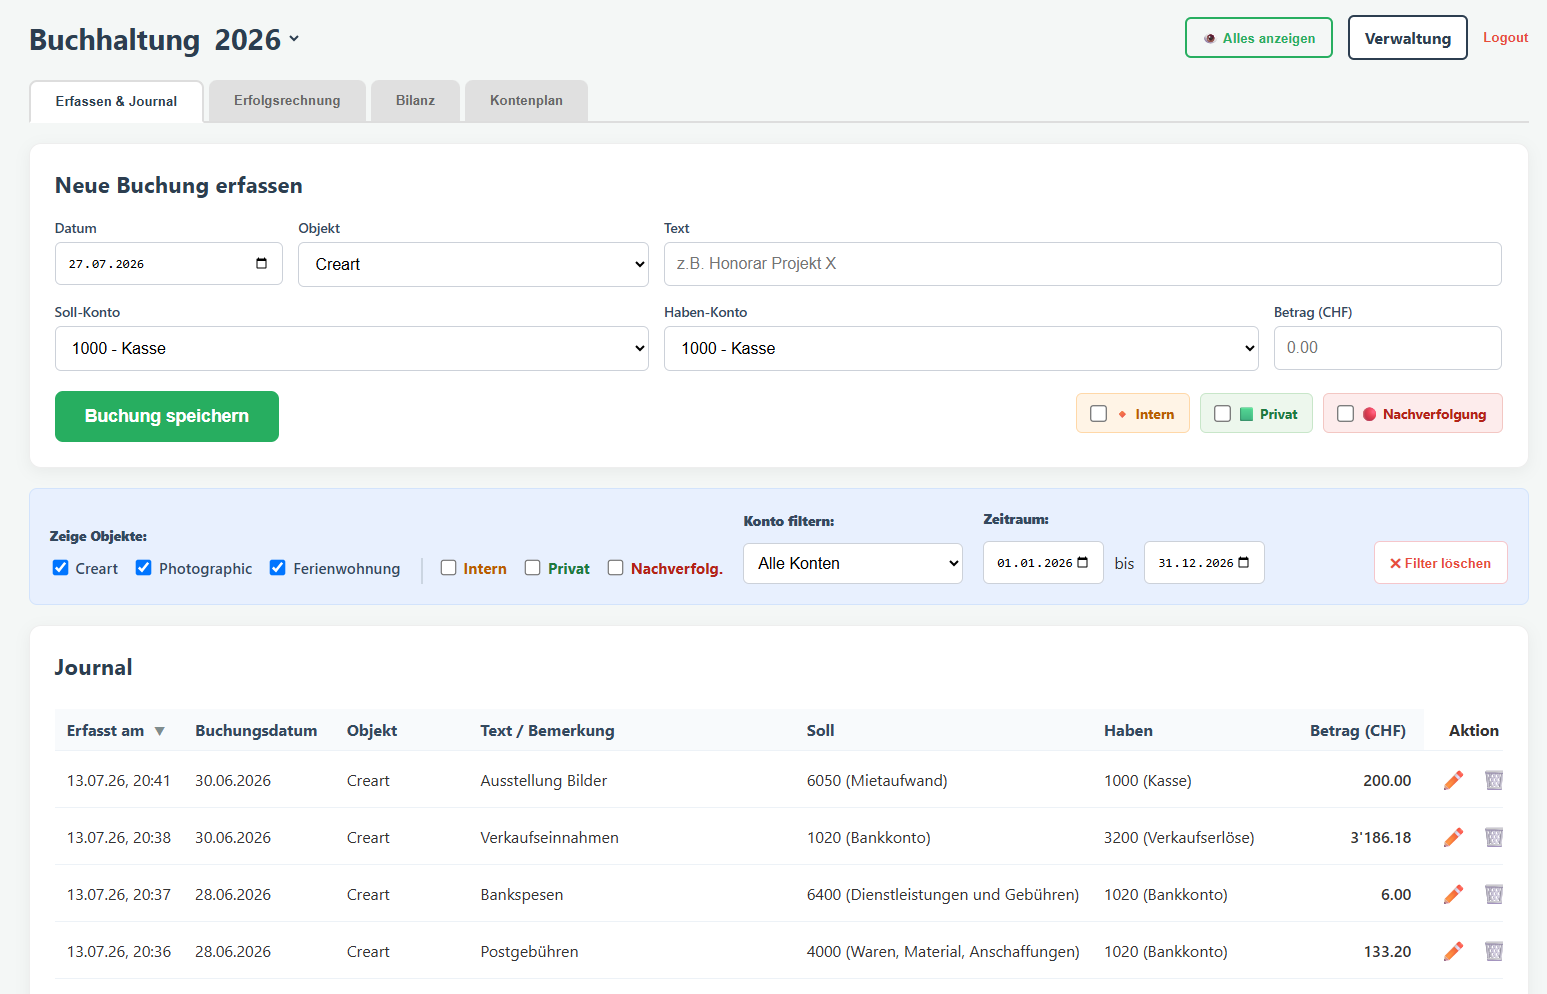
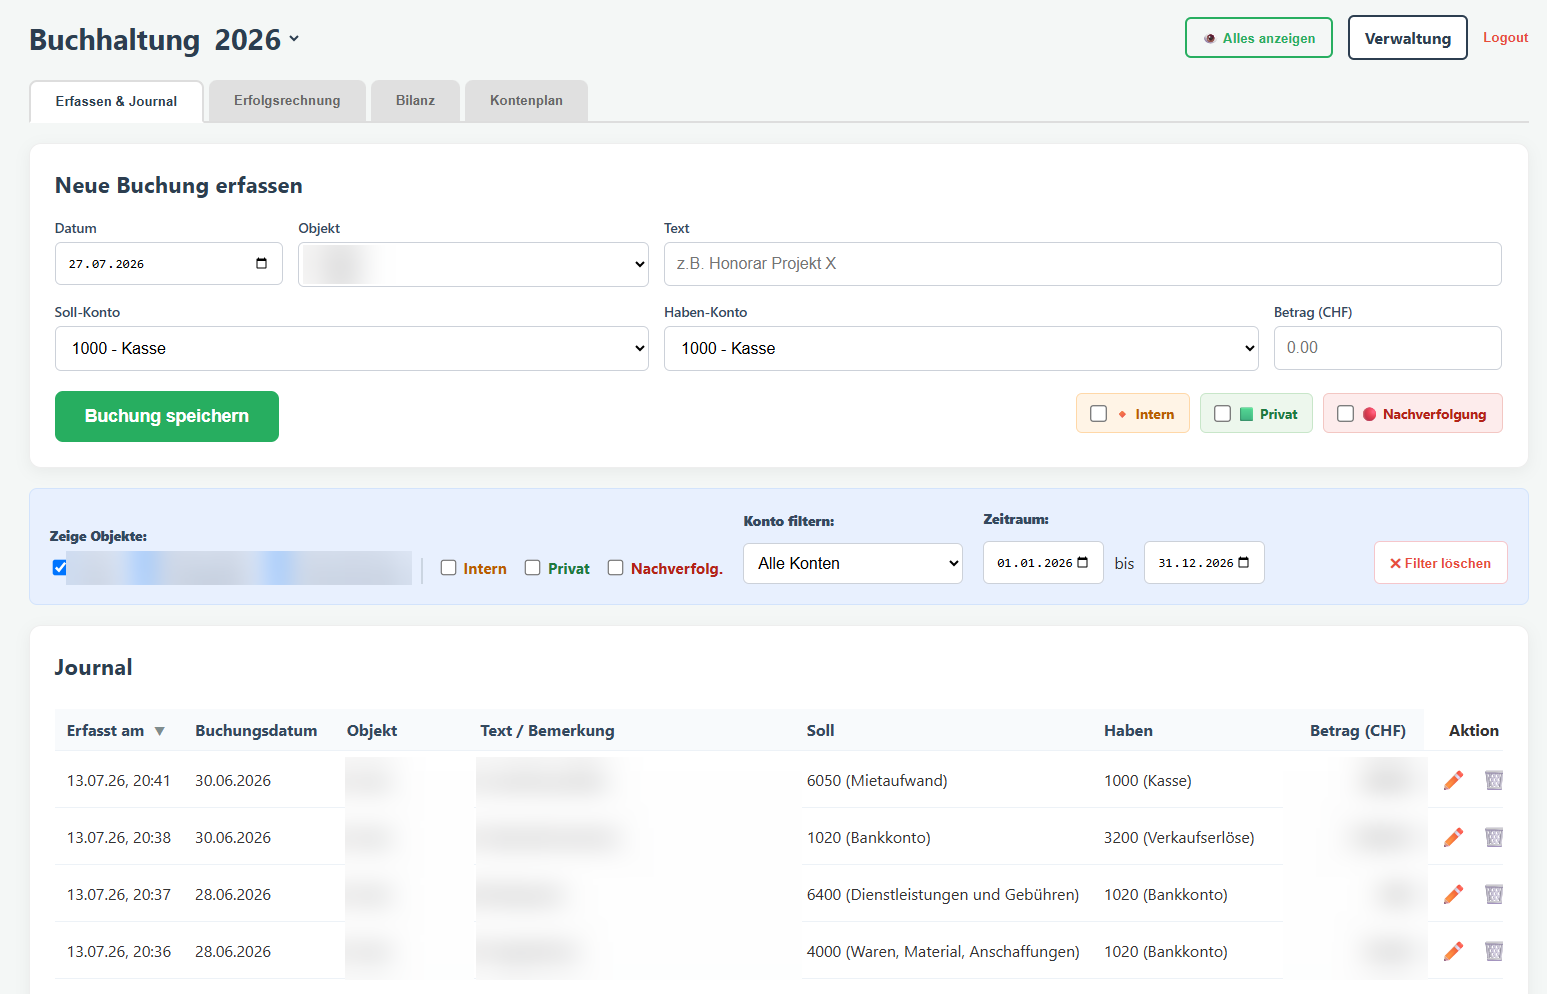
Sechstes Referenzprojekt ergänzen: Management einer Einzelfirma
Eine Einzelfirma führte ihr Kassenbuch in Excel und pflegte Verkäufe,
Debitorenlisten und Kostenkontrolle daneben von Hand. Die App fasst das
zusammen: doppelte Buchhaltung mit Erfolgsrechnung, Bilanz und automatischem
Abschluss, dazu Verkäufe, Vermietungen, Debitorenbuchhaltung und
Kundenadressen. Die Daten liegen auf einem Schweizer Server ohne Cloud.

Im Screenshot sind unkenntlich gemacht: die Objektauswahl im
Erfassungsformular, die Filterzeile mit den drei Objektnamen sowie im Journal
die Spalten Objekt, Text und Betrag. Der Firmenname kommt dadurch nirgends
mehr vor, auch nicht im HTML – deshalb steht als Kennzeichnung der Karte
"Management Einzelfirma" statt der Subdomain, die den Namen verraten hätte.

Sichtbar bleiben Buchungsdaten und die Spalten Soll und Haben. Es handelt sich
um Konten eines Standardkontenrahmens, die keine Rückschlüsse auf die Firma
zulassen; ohne sie wäre nicht erkennbar, dass es um eine doppelte Buchhaltung
geht.

Claude-Session: https://claude.ai/code/session_01LjRUfW3FfsT8qTny9Sf7Sg

diff --git a/index.html b/index.html
@@ -1079,12 +1079,12 @@ form .btn{width:100%; justify-content:center}
        a) öffentlich erreichbar  -> Link zur App (.proj-open) + Badge "Live"
        b) geschützt / mit Login  -> nur Screenshots + Badge "Geschützt"
 
-     Alle fünf Karten haben einen echten Screenshot (figure.proj-shot). Bei
+     Alle sechs Karten haben einen echten Screenshot (figure.proj-shot). Bei
      einem Austausch daran denken: src, width, height und alt anpassen, und in
      den Bildern der geschützten Apps müssen Gesichter und Namen erneut
      unkenntlich gemacht werden – siehe assets/README.md.
 
-     TODO: Ausgangslage und Problem stammen bei allen fünf Apps vom Betreiber,
+     TODO: Ausgangslage und Problem stammen bei allen sechs Apps vom Betreiber,
      Lösung, Funktionsliste und Ergebnis sind daraus abgeleitet – bitte
      gegenlesen, ebenso die Angaben zu Datenschutz und Hosting.
 
@@ -1473,6 +1473,81 @@ form .btn{width:100%; justify-content:center}
             <strong>Ergebnis:</strong> Ein Ort statt fünf Apps – mit Bildern in Originalqualität
             statt in Chat-Qualität. Die Abrechnung am Ende der Ferien dauert Minuten, und niemand
             muss mehr im Chat nach oben scrollen, um etwas zu finden.
+          </p>
+        </div>
+      </div>
+    </details>
+
+    <!-- Projekt 6: Management Einzelfirma (geschützt) ------------------- -->
+    <details class="proj reveal">
+      <summary>
+        <div>
+          <div class="proj-meta">
+            <span class="pill pill--closed">Geschützt</span>
+            <span class="tag">Management Einzelfirma</span>
+          </div>
+          <p class="proj-title">Buchhaltung und Verwaltung einer Einzelfirma</p>
+          <p class="proj-sum">
+            Buchhaltung, Verkäufe, Debitoren und Kundenadressen in einer App – mit
+            Erfolgsrechnung, Bilanz und automatischem Abschluss statt Excel-Kassenbuch.
+          </p>
+        </div>
+        <span class="proj-toggle" aria-hidden="true">
+          <svg width="16" height="16" viewBox="0 0 24 24" fill="none" stroke="currentColor" stroke-width="2.2" stroke-linecap="round"><path d="M12 5v14M5 12h14"/></svg>
+        </span>
+      </summary>
+      <div class="proj-detail">
+        <div class="proj-open">
+          <small>
+            <strong>Kein öffentlicher Link:</strong> Die App enthält die Geschäftszahlen einer
+            Firma und ist nur mit persönlichem Login erreichbar. Deshalb hier nur ein Screenshot.
+          </small>
+        </div>
+        <div class="proj-cols">
+          <div class="proj-block">
+            <h4>Ausgangslage</h4>
+            <p>Eine Einzelfirma führte ihr Kassenbuch in einer Excel-Datei. Verkäufe, Debitorenlisten und die Kostenkontrolle entstanden daneben von Hand in weiteren Dokumenten.</p>
+          </div>
+          <div class="proj-block">
+            <h4>Problem</h4>
+            <p>Jeder Bereich lag für sich: Dieselben Angaben mussten mehrfach erfasst werden, Debitorenlisten wurden manuell nachgeführt, und für einen Abschluss war jedes Mal Handarbeit nötig.</p>
+          </div>
+          <div class="proj-block">
+            <h4>Umgesetzte Lösung</h4>
+            <p>Eine App für die gesamte Firma statt einzelner Dateien: doppelte Buchhaltung mit Erfolgsrechnung, Bilanz und automatischem Abschluss. Verkäufe und Vermietungen werden ebenfalls dort organisiert, dazu die Debitorenbuchhaltung und eine Adressliste der Kundschaft.</p>
+          </div>
+          <div class="proj-block">
+            <h4>Wichtigste Funktionen</h4>
+            <ul>
+              <li>Buchungen erfassen, Journal mit Filtern</li>
+              <li>Erfolgsrechnung, Bilanz und Kontenplan</li>
+              <li>Automatischer Abschluss</li>
+              <li>Verkäufe und Vermietungen verwalten</li>
+              <li>Debitorenbuchhaltung und Kundenadressen</li>
+            </ul>
+          </div>
+          <div class="proj-block">
+            <h4>Datenschutz &amp; Hosting</h4>
+            <p>Geschäftszahlen gehören nicht in fremde Hände: Alle Daten liegen auf einem Server in der Schweiz, ohne Anbindung an eine Cloud. Zugang nur mit persönlichem Login.</p>
+          </div>
+          <div class="proj-block">
+            <h4>Technik</h4>
+            <p>Läuft im Browser auf Computer und Handy, ohne Installation. Betrieb und Backups laufen automatisch.</p>
+          </div>
+
+          <!-- Im Bild sind Firmenname, Objektnamen, Buchungstexte und Beträge
+               unkenntlich gemacht. Wird der Screenshot ersetzt, muss das erneut
+               geschehen – siehe assets/README.md. -->
+          <figure class="proj-shot">
+            <img src="assets/buchhaltung.png" width="1547" height="994" loading="lazy"
+                 alt="Buchhaltungsansicht mit Reitern für Erfassen und Journal, Erfolgsrechnung, Bilanz und Kontenplan, einem Formular für neue Buchungen und dem Journal darunter. Firmenbezug, Buchungstexte und Beträge sind unkenntlich gemacht.">
+            <figcaption>Buchungserfassung und Journal – Firmenbezug, Texte und Beträge unkenntlich gemacht.</figcaption>
+          </figure>
+
+          <p class="proj-result">
+            <strong>Ergebnis:</strong> Ein System, das genau auf diese Firma zugeschnitten ist –
+            ohne Funktionen, die nie gebraucht werden. Der Abschluss entsteht auf Knopfdruck statt
+            in Handarbeit, und die Zahlen stehen nicht mehr über mehrere Dateien verteilt.
           </p>
         </div>
       </div>

diff --git a/README.md b/README.md
@@ -14,7 +14,7 @@ keine externen Schriften oder Skripte. Datei auf einen Webserver kopieren, ferti
 | Ausgangslage | Vier typische Situationen als Zitate, statt Technologie zuerst |
 | Der Ansatz | Warum das heute schneller und günstiger geht, plus „bei jedem Projekt inbegriffen“ |
 | Leistungen | Fünf Angebote, inkl. Coaching als eigenständige zweite Dienstleistung |
-| Referenzprojekte | Fünf echte Apps, aufklappbar mit Ausgangslage, Problem, Lösung, Funktionen, Datenschutz, Ergebnis |
+| Referenzprojekte | Sechs echte Apps, aufklappbar mit Ausgangslage, Problem, Lösung, Funktionen, Datenschutz, Ergebnis |
 | Ablauf | Sechs Schritte vom Erstgespräch bis zur Betreuung |
 | Über mich | Persönliche Vorstellung und sechs Vertrauenspunkte |
 | Häufige Fragen | Preis, Dauer, Quellcode, Datenschutz, Ausfallrisiko, Übernahme |
@@ -32,12 +32,14 @@ Alle Stellen sind in `index.html` mit `TODO` markiert:
 - [ ] **E-Mail-Adresse** – `kontakt@alae.app` (im Kontaktbereich, im Footer, in der
       Konstante `EMPFAENGER` im Skript und in den strukturierten Daten)
 - [ ] **Telefonnummer** – Platzhalter `+41000000000` ersetzen oder den Block löschen
-- [x] **Screenshots aller fünf Projekte** – eingebunden; bei den beiden geschützten
-      Apps sind Gesichter und Namen unkenntlich gemacht (Details in `assets/README.md`)
-- [ ] **Projekttexte prüfen** – bei allen fünf Apps stammen Ausgangslage und Problem
+- [x] **Screenshots aller sechs Projekte** – eingebunden; bei den drei geschützten
+      Apps sind Gesichter, Namen und Geschäftszahlen unkenntlich gemacht
+      (Details in `assets/README.md`)
+- [ ] **Projekttexte prüfen** – bei allen sechs Apps stammen Ausgangslage und Problem
       von dir, Lösung, Funktionsliste und Ergebnis sind daraus abgeleitet und
       gegenzulesen
-- [ ] **Freigabe der Fotografin** für die Nennung als Referenz und den Screenshot einholen
+- [ ] **Freigaben einholen** – von der Fotografin für Nennung und Screenshot, ebenso
+      von der Einzelfirma für den Screenshot der Buchhaltung
 - [ ] **Portrait** – `.portrait` durch `<img src="assets/portrait.jpg" alt="…">` ersetzen
 - [ ] **Impressum und Datenschutzerklärung** – eigene Seiten anlegen und die
       Footer-Links darauf zeigen lassen (in der Schweiz erwartet, für Werbung nötig)

diff --git a/assets/README.md b/assets/README.md
@@ -11,6 +11,7 @@ Bilder für die Landingpage.
 | `pvt.png` | Volleyballturnier – Dashboard eines Teams | 1084 × 1246 px |
 | `foto-app.png` | Fotoverkauf – Galerie einer Familie | 929 × 1211 px |
 | `share.png` | Familien-Sharing – Fotobereich mit Bereiche-Menü | 1317 × 1136 px |
+| `buchhaltung.png` | Management Einzelfirma – Buchungserfassung und Journal | 1547 × 994 px |
 
 Beim Austauschen darauf achten, dass `width` und `height` am `<img>` in
 `index.html` zur neuen Bildgrösse passen – die beiden Angaben verhindern, dass
@@ -50,6 +51,18 @@ Darin sind unkenntlich gemacht:
 **`share.png`**
 
 - alle geteilten Fotos, auf denen Personen zu sehen sind
+
+**`buchhaltung.png`**
+
+- die Objektauswahl im Erfassungsformular (enthielt den Firmennamen)
+- die Filterzeile „Zeige Objekte" mit den drei Objektnamen
+- im Journal die Spalten Objekt, Text / Bemerkung und Betrag
+
+Bewusst sichtbar geblieben sind dort Buchungsdaten sowie die Spalten Soll und
+Haben: Das sind Konten aus einem Standardkontenrahmen (1000 Kasse, 3200
+Verkaufserlöse und so weiter) und lassen keine Rückschlüsse auf die Firma zu.
+Ohne sie wäre nicht erkennbar, dass es sich um eine doppelte Buchhaltung
+handelt.
 
 Scharf bleiben jeweils die Bedienelemente – bei `share.png` insbesondere das
 Menü mit den zuschaltbaren Bereichen, das die App ja gerade auszeichnet.
